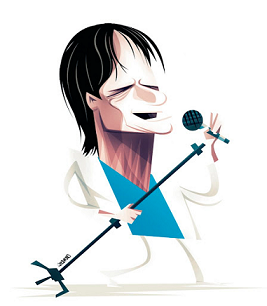
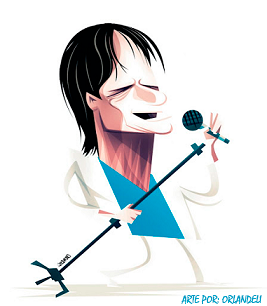
mudando imagem e readme

diff --git a/README.md b/README.md
@@ -1,5 +1,1 @@
-# streamlit-to-heroku-tutorial
-# streamlit-to-heroku-tutorial
-# RoBERToCarlos >> README.md
-echo # RoBERToCarlos
 # RoBERToCarlos
